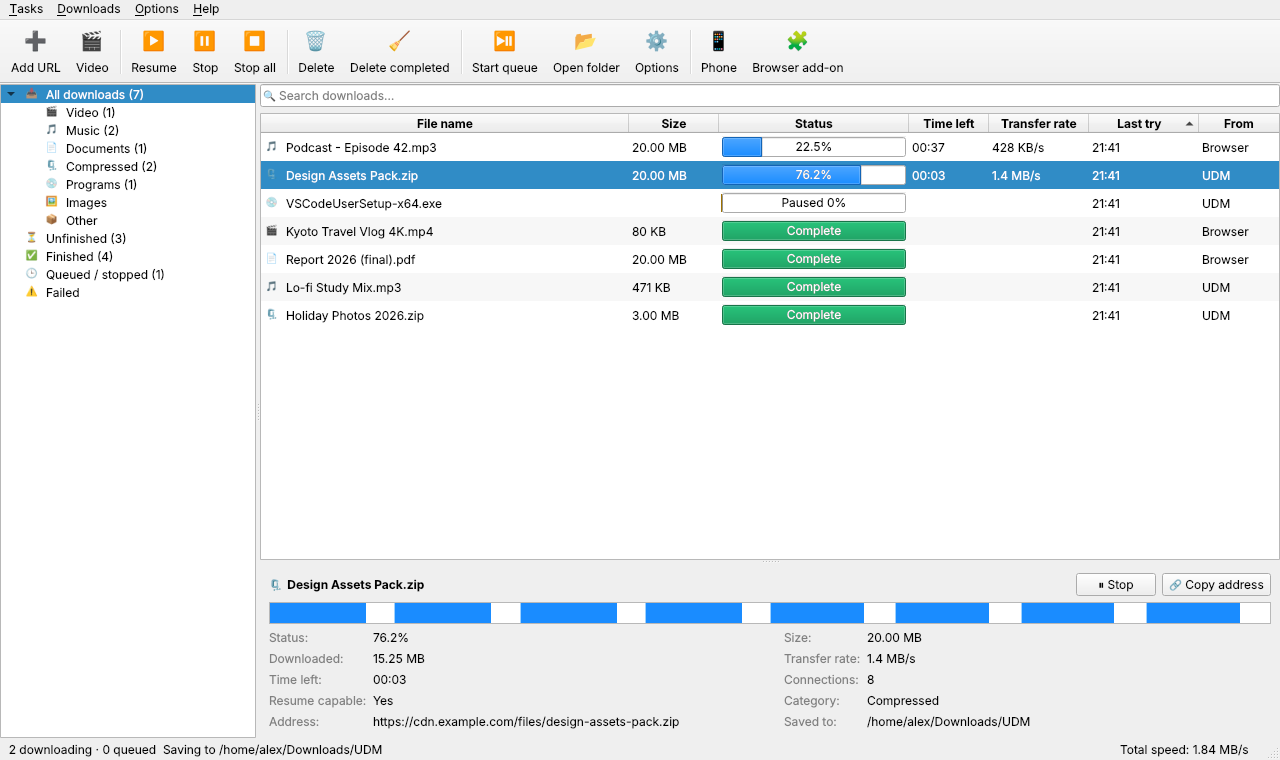
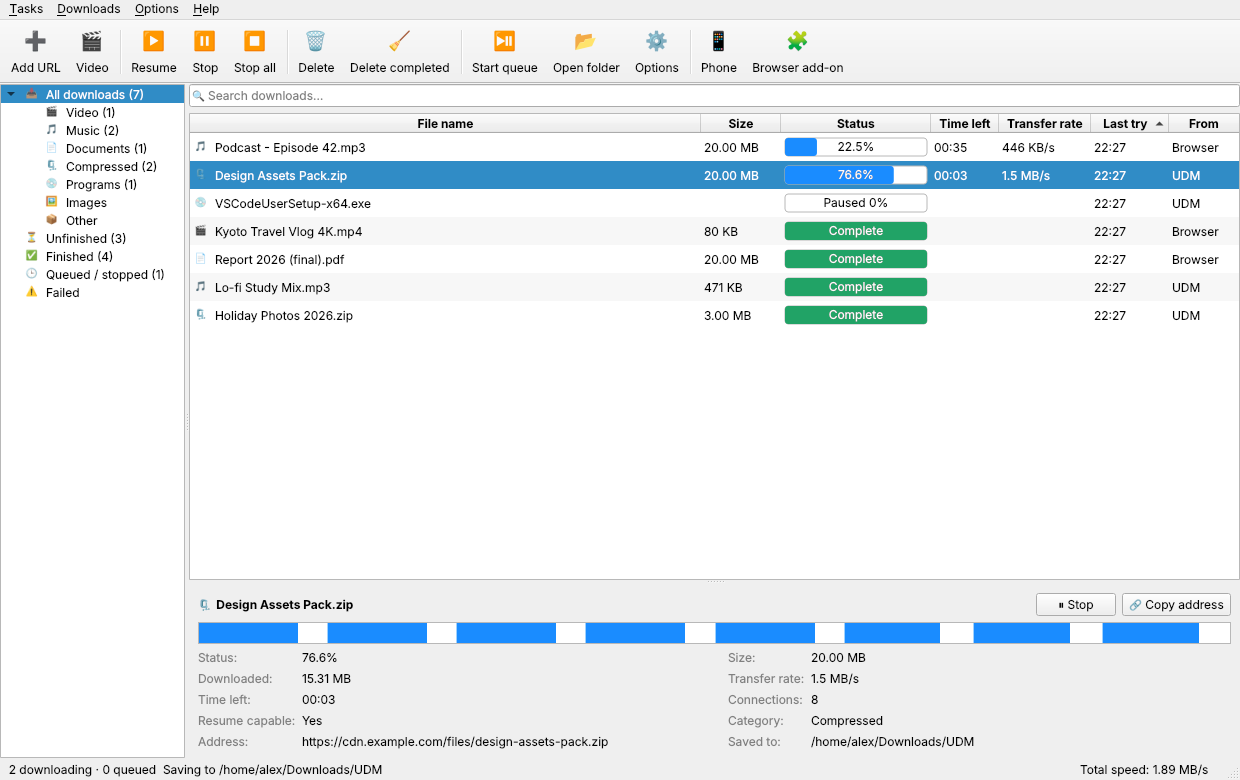
Draw progress bars ourselves (fixes Mac), fit small screens, hide ffmpeg console windows
- macOS style can't draw progress bars inside table cells: UDM now paints them itself
- File names shorten in the middle so the file type stays visible; tighter columns
- Window size fits the screen; narrower sidebar
- Windows: ffmpeg runs without flashing a console window in the windowed app

Claude-Session: https://claude.ai/code/session_01ThoW7jFuyRscMwBxg8CrZZ

Changed region(s): [[0.0, 0.0, 1.0, 0.4539], [0.0, 0.7263, 1.0, 0.9987], [0.8581, 0.9684, 0.9806, 0.9987]]

diff --git a/udm_qt.py b/udm_qt.py
@@ -58,7 +58,7 @@ from PySide6.QtWidgets import (QAbstractItemView, QApplication, QButtonGroup, QC
                                QGroupBox, QHBoxLayout, QHeaderView, QLabel, QLineEdit, QMainWindow,
                                QMenu, QMessageBox, QPlainTextEdit, QProgressDialog, QPushButton,
                                QRadioButton, QSizePolicy, QSlider, QSpinBox, QSplitter, QStyle,
-                               QStyledItemDelegate, QStyleOptionProgressBar, QSystemTrayIcon,
+                               QStyledItemDelegate, QSystemTrayIcon,
                                QTableView, QTabWidget, QToolBar, QTreeWidget, QTreeWidgetItem,
                                QVBoxLayout, QWidget)
 
@@ -303,28 +303,39 @@ class JobsFilter(QSortFilterProxyModel):
 
 
 class StatusDelegate(QStyledItemDelegate):
-    """Progress bar in the Status column, like IDM."""
+    """Progress bar in the Status column, like IDM. Drawn by UDM itself so it looks the same (and sits in the
+    right place) with every platform style - the macOS style can't draw progress bars inside table cells."""
 
     def paint(self, painter, option, index):
         j = index.data(JOB_ROLE)
         if not j:
             return super().paint(painter, option, index)
+        pal = option.palette
         if option.state & QStyle.StateFlag.State_Selected:
-            painter.fillRect(option.rect, option.palette.highlight())
-        bar = QStyleOptionProgressBar()
-        bar.rect = option.rect.adjusted(3, 4, -3, -4)
-        bar.minimum, bar.maximum = 0, 100
-        bar.progress = 100 if j.get("status") == "done" else int(j.get("percent") or 0)
-        bar.text = status_text(j)
-        bar.textVisible = True
-        bar.textAlignment = Qt.AlignmentFlag.AlignCenter
-        bar.state = QStyle.StateFlag.State_Enabled | QStyle.StateFlag.State_Horizontal
-        pal = QPalette(option.palette)
-        color = OK if j.get("status") == "done" else WARN if (j.get("needs_refresh") or j.get("status") == "paused") \
-            else ERR if j.get("status") in ("error", "cancelled") else BRAND
-        pal.setColor(QPalette.ColorRole.Highlight, color)
-        bar.palette = pal
-        QApplication.style().drawControl(QStyle.ControlElement.CE_ProgressBar, bar, painter)
+            painter.fillRect(option.rect, pal.highlight())
+        st = j.get("status")
+        pct = 100.0 if st == "done" else float(j.get("percent") or 0)
+        color = OK if st == "done" else WARN if (j.get("needs_refresh") or st == "paused") \
+            else ERR if st in ("error", "cancelled") else BRAND
+        r = QRectF(option.rect.adjusted(4, 5, -4, -5))
+        painter.save()
+        painter.setRenderHint(QPainter.RenderHint.Antialiasing)
+        painter.setPen(pal.color(QPalette.ColorRole.Mid))
+        painter.setBrush(pal.color(QPalette.ColorRole.Base))
+        painter.drawRoundedRect(r, 3, 3)
+        filled = QRectF(r.x(), r.y(), r.width() * max(0.0, min(pct, 100.0)) / 100, r.height())
+        if filled.width() > 0:
+            painter.setPen(Qt.PenStyle.NoPen)
+            painter.setBrush(color)
+            painter.drawRoundedRect(filled, 3, 3)
+        text = status_text(j)
+        painter.setPen(pal.color(QPalette.ColorRole.Text))       # text on the empty part
+        painter.drawText(r, Qt.AlignmentFlag.AlignCenter, text)
+        if filled.width() > 0:                                    # white text on the coloured part
+            painter.setClipRect(filled)
+            painter.setPen(QColor("#ffffff"))
+            painter.drawText(r, Qt.AlignmentFlag.AlignCenter, text)
+        painter.restore()
 
 
 class SegmentMap(QWidget):
@@ -1066,8 +1077,9 @@ class MainWindow(QMainWindow):
         self.asked_refresh: set = set()
         self.setWindowTitle(APP_NAME)
         self.setWindowIcon(app_icon())
-        self.resize(1240, 780)
-        self.setMinimumSize(900, 560)
+        avail = QGuiApplication.primaryScreen().availableGeometry()
+        self.resize(min(1240, int(avail.width() * 0.94)), min(780, int(avail.height() * 0.9)))
+        self.setMinimumSize(760, 480)
         self.setAcceptDrops(True)
 
         self.model = JobsModel()
@@ -1140,8 +1152,8 @@ class MainWindow(QMainWindow):
         # left: categories
         self.side = QTreeWidget()
         self.side.setHeaderHidden(True)
-        self.side.setMinimumWidth(190)
-        self.side.setMaximumWidth(260)
+        self.side.setMinimumWidth(170)
+        self.side.setMaximumWidth(240)
         self.side_items = {}
         root = QTreeWidgetItem(["All downloads"])
         root.setData(0, JOB_ROLE, "all")
@@ -1186,9 +1198,13 @@ class MainWindow(QMainWindow):
         self.table.setShowGrid(False)
         self.table.setAlternatingRowColors(True)
         self.table.setItemDelegateForColumn(2, StatusDelegate(self.table))
+        self.table.setTextElideMode(Qt.TextElideMode.ElideMiddle)     # keep the file type visible
+        self.table.setWordWrap(False)
         hh = self.table.horizontalHeader()
+        hh.setMinimumSectionSize(40)
         hh.setSectionResizeMode(0, QHeaderView.ResizeMode.Stretch)
-        for c, w in ((1, 90), (2, 190), (3, 80), (4, 100), (5, 110), (6, 80)):
+        for c, w in ((1, 80), (2, 150), (3, 68), (4, 92), (5, 78), (6, 70)):
+            hh.setSectionResizeMode(c, QHeaderView.ResizeMode.Interactive)
             self.table.setColumnWidth(c, w)
         self.table.setContextMenuPolicy(Qt.ContextMenuPolicy.CustomContextMenu)
         self.table.customContextMenuRequested.connect(self.context_menu)
@@ -1234,6 +1250,7 @@ class MainWindow(QMainWindow):
         split.addWidget(self.side)
         split.addWidget(center)
         split.setStretchFactor(1, 1)
+        split.setSizes([185, max(500, self.width() - 185)])
         self.setCentralWidget(split)
 
         # status bar

diff --git a/app.py b/app.py
@@ -30,6 +30,8 @@ except ImportError:
     pass
 
 
+# Windows: run helper programs (ffmpeg ...) without flashing a black console window
+NO_WINDOW = {"creationflags": getattr(subprocess, "CREATE_NO_WINDOW", 0)} if os.name == "nt" else {}
 FROZEN = getattr(sys, "frozen", False)          # True when running as UDM.exe
 BUNDLE = Path(getattr(sys, "_MEIPASS", Path(__file__).resolve().parent))
 ENGINE_DIR = Path.home() / ".udm" / "engine"
@@ -341,7 +343,7 @@ def format_sort(quality):
 def probe_codecs(path, ffmpeg):
     """Return (video_codec, audio_codec) using 'ffmpeg -i' (no ffprobe needed)."""
     r = subprocess.run([ffmpeg, "-hide_banner", "-i", str(path)], capture_output=True, text=True,
-                       errors="ignore")
+                       errors="ignore", **NO_WINDOW)
     v = re.search(r"Stream #.*?Video: (\w+)", r.stderr)
     a = re.search(r"Stream #.*?Audio: (\w+)", r.stderr)
     return (v.group(1).lower() if v else None, a.group(1).lower() if a else None)
@@ -349,7 +351,7 @@ def probe_codecs(path, ffmpeg):
 
 def media_duration(path, ffmpeg):
     """Length in seconds of an audio/video file (None if it has no playable media)."""
-    r = subprocess.run([ffmpeg, "-hide_banner", "-i", str(path)], capture_output=True, text=True, errors="ignore")
+    r = subprocess.run([ffmpeg, "-hide_banner", "-i", str(path)], capture_output=True, text=True, errors="ignore", **NO_WINDOW)
     m = re.search(r"Duration: (\d+):(\d+):([\d.]+)", r.stderr)
     return int(m[1]) * 3600 + int(m[2]) * 60 + float(m[3]) if m else None
 
@@ -377,7 +379,7 @@ def make_mac_compatible(path, ffmpeg):
         cmd += ["-c:v", "libx264", "-preset", "veryfast", "-crf", "20", "-pix_fmt", "yuv420p"]
     cmd += ["-c:a", "copy"] if a_ok else ["-c:a", "aac", "-b:a", "192k"]
     cmd += ["-movflags", "+faststart", str(out)]
-    r = subprocess.run(cmd, capture_output=True, text=True, errors="ignore")
+    r = subprocess.run(cmd, capture_output=True, text=True, errors="ignore", **NO_WINDOW)
     if r.returncode != 0 or not out.exists():
         out.unlink(missing_ok=True)
         raise RuntimeError("Converting for QuickTime failed: " + r.stderr[-500:])
@@ -1001,7 +1003,7 @@ def pick_folder_dialog(start: str) -> str | None:
         return r.stdout.strip() or None
     code = ("import tkinter as t,tkinter.filedialog as f;r=t.Tk();r.withdraw();r.attributes('-topmost',1);"
             f"print(f.askdirectory(initialdir={start!r}) or '')")
-    r = subprocess.run([sys.executable, "-c", code], capture_output=True, text=True)
+    r = subprocess.run([sys.executable, "-c", code], capture_output=True, text=True, **NO_WINDOW)
     return r.stdout.strip() or None
 
 
